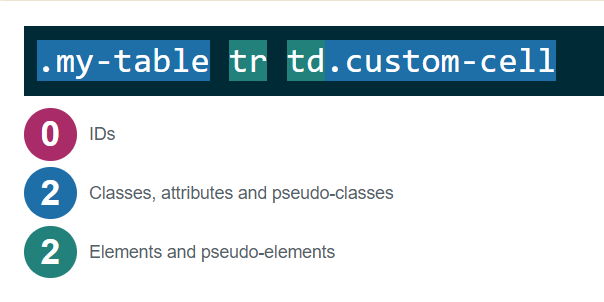
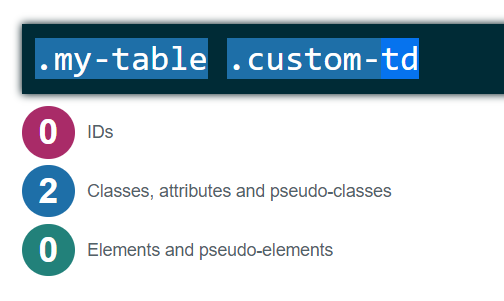
editing

Changed region(s): [[0.0298, 0.0598, 1.0, 0.9269], [0.0, 0.0, 1.0, 0.0299]]

diff --git a/its-not-working/what-will-specificity-do-for-you.md b/its-not-working/what-will-specificity-do-for-you.md
@@ -9,7 +9,7 @@ tag: "#it's not working"
 <Badge :text="$page.frontmatter.date" />
 <Badge :text="$page.frontmatter.tag" />
 
-The other day I ran into a situation where a co-worker was not understanding how to override existing styles of an element. Instead of restoring to the evil **!important** statement, we took a deeper look at the code to undertand what could be done.
+The other day I ran into a situation where a co-worker was having problems getting their styles to appear on an element (you've probably heard this before 🙄). Instead of restorting  evil **!important** statements, we took a deeper look at the code to understand what could be done.
 
 ## The setup
 
@@ -51,52 +51,52 @@ Which would result in something like this...
 
 ## ...the change attempt
 
-Co-worker wanted to remove the the first bottom border on the `apple` cell and added a class to the `td` element in question as so...
+Co-worker wanted to remove the the bottom border on the `apple` cell and added a class to the `td` element in question as so...
 
 ```html
-<td class="custom-cell">Apple</td>
+<td class="custom-td">Apple</td>
 ```
 
 ...and the css...
 
 ```css
-.custom-cell { border: none; }
+.custom-td { border: none; }
 ```
 
-But what was the result? NOTHING CHANGED. The border was still there...
+What was the net result ? NOTHING CHANGED. The border was still there...
 
 Ahhhhhh.....(╯°□°）╯︵ ┻━┻
 
-You put a class DIRECTLY on the table cell you want to change and it didnt work! So infuriating, right?  Well guess what?  You did it wrong....
+You put a class DIRECTLY on the table cell you want to change and it didnt work ! So infuriating, right ?  Well guess what ?  You did it wrong...
 
-## ...whats the problem?
+## ...whats the problem ?
 
-First, let's use this awesome [Specificity Calculator](https://specificity.keegan.st/) to help understand whats taking priority.  In case you didn't know, all the rules you write in css have a secret value (cardinality) to them. When two different styles affect the same element, the one that is more 'specific' a.k.a has the higher value, wins. Plugging in the first style selector of `.table tr td` to the calculator we get...
+First, let's use this awesome [Specificity Calculator](https://specificity.keegan.st/) to help understand what's taking priority.  In case you didn't know, all the rules you write in CSS have a secret value (cardinality) to them. When two different styles affect the same element, the one that is more 'specific' a.k.a has the higher value, wins. Plugging in the first style selector `.my-table tr td` to the calculator we get...
 
 ![An image](../.vuepress/public/images/posts/specificity-calculator-1.png)
 
-What you can infer from the selector is that it produces a value of 12. One class and two elements.  Whats the value of the `.custom-cell` class ?
+What you can infer from the selector is that it produces a value of 12. One class and two elements.  Whats the value of the `.custom-td` class ?
 
 ![An image](../.vuepress/public/images/posts/specificity-calculator-2.png)
 
-... 10 ! and because 12 > 10 your conflicting properties between the two rules will have the `.table tr td` selector ones take effect , hence why `border: none` doesn't work.
+... 10 ! and because 12 > 10 your conflicting properties between the two rules will have the `.my-table tr td` selector ones take effect , hence why `border: none` doesn't work.
 
-## ...and the solution?
+## ...and the solution ?
 
 You don't need to know your entire CSS code base to understand whats the conflicting situations.  These days ites easy enough to use the 'inspect element' functionality of any browser and see what ruels are being appled.  For example..
 
 Here you can see the rule is crossed out because the other rule specifies the same property and with its higher specificy it wins.  To get the rule you wrote to take effect you would have to do something like...
 
 ```css
-.my-table tr td.custom-cell{ border: none;}
+.my-table .custom-td { border: none; }
 ```
 ...and now its value in the specifity calculator...
 
 ![An image](../.vuepress/public/images/posts/specificity-calculator-3.png)
 
-As you can see 22 > 12 and and properties you write here will work
+Now we have a situation of 20 > 12 meaning that our `border: none;` statement will actually work!
 
-## Moral of the story
+## What did you learn ?
 
 There's always a reason why your rules don't take effect.  It's almost always a specificity issue that needs some element inspection to determine.  A better way of getting around these situations is to use an establish methodoly such as B.E.M  to help componentize your css blocks and affect only certain items.  When you need to customize the element you can then just add to the existing scoped block.
 

diff --git a/lessons/you-better-be-absolutely-sure.md b/lessons/you-better-be-absolutely-sure.md
@@ -10,7 +10,9 @@ tag: "#lesson"
 <Badge :text="$page.frontmatter.date" />
 <Badge :text="$page.frontmatter.tag" />
 
-How many times have you been tasked with putting something on the page
+How many times have you been tasked with putting something on the page and end up in this cycle
+
+![An image](../.vuepress/public/images/posts/family-guy.gif)
 
 Let's say you have this setup
 
@@ -19,6 +21,45 @@ Let's say you have this setup
 	<div class="a">A</div>
 	<div class="b">B</div>
 </div>
-
-
 ```
+
+with this css..
+
+```css
+.container{
+	border:1px solid black;
+}
+```
+<style>
+.my-container{
+	position:relative;
+	border:1px solid black;
+	width:100px;
+}
+</style>
+<div class="my-container">
+	<div class="a">A</div>
+	<div class="b">B</div>
+</div>
+Now heere's your task.  Move B to the far right of the page
+
+Your first attempt might go as follows
+
+```css
+.b {
+	position: absolute;
+	right: 0;
+}
+```
+<style>
+.b {
+	position: absolute;
+	right: 0;
+}
+</style>
+<div class="my-container">
+	<div class="a">A</div>
+	<div class="b">B</div>
+</div>
+
+Huh?  B should have moved to the far right of the page, ya?
